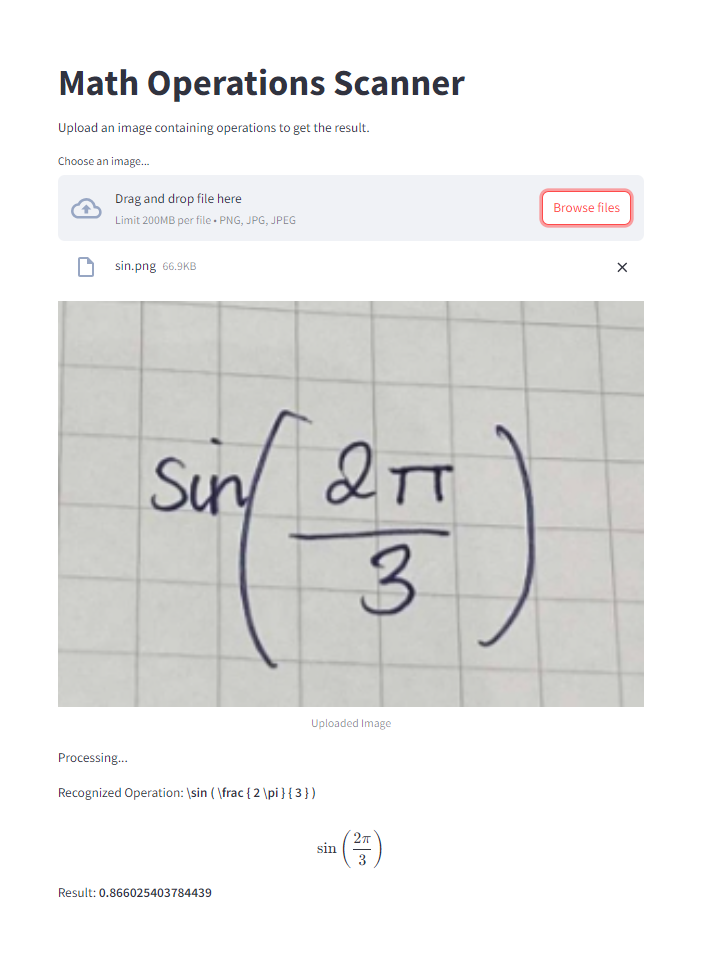
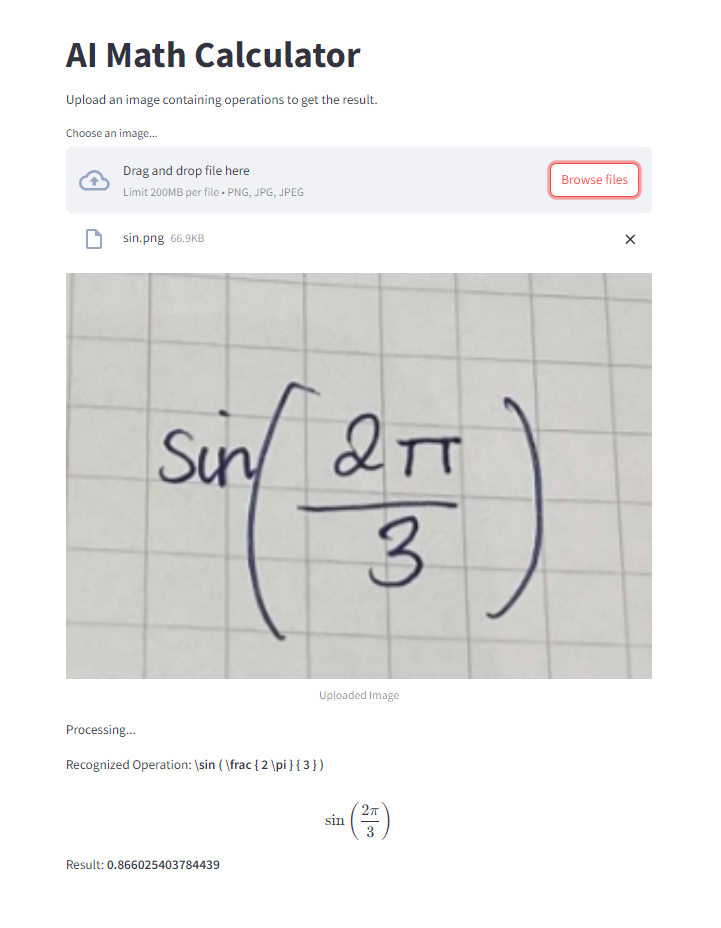
ok

diff --git a/app.py b/app.py
@@ -9,7 +9,7 @@ from math_recognizer import MathRecognizer
 math_recognizer = MathRecognizer()
 
 # Streamlit app layout
-st.title("Math Operations Scanner")
+st.title("AI Math Calculator")
 st.write("Upload an image containing operations to get the result.")
 
 # Upload image

diff --git a/README.md b/README.md
@@ -1,8 +1,8 @@
-# Math Operations Scanner
+# AI Math Calculator
 
 ## Introduction
 
-Math Operations Scanner is a web application that allows users to upload images containing operations. The app utilizes advanced machine learning techniques to recognize mathematical expressions from images and computes the results automatically using the Mathematical Formula Recognition (MFR) model from [Pix2Text (P2T)](https://huggingface.co/breezedeus/pix2text-mfr).
+AI Math Calculator is a web application that allows users to upload images containing operations. The app utilizes advanced machine learning techniques to recognize mathematical expressions from images and computes the results automatically using the Mathematical Formula Recognition (MFR) model from [Pix2Text (P2T)](https://huggingface.co/breezedeus/pix2text-mfr).
 
 ![App Screenshot](./images/AppScreenshot.png)
 
